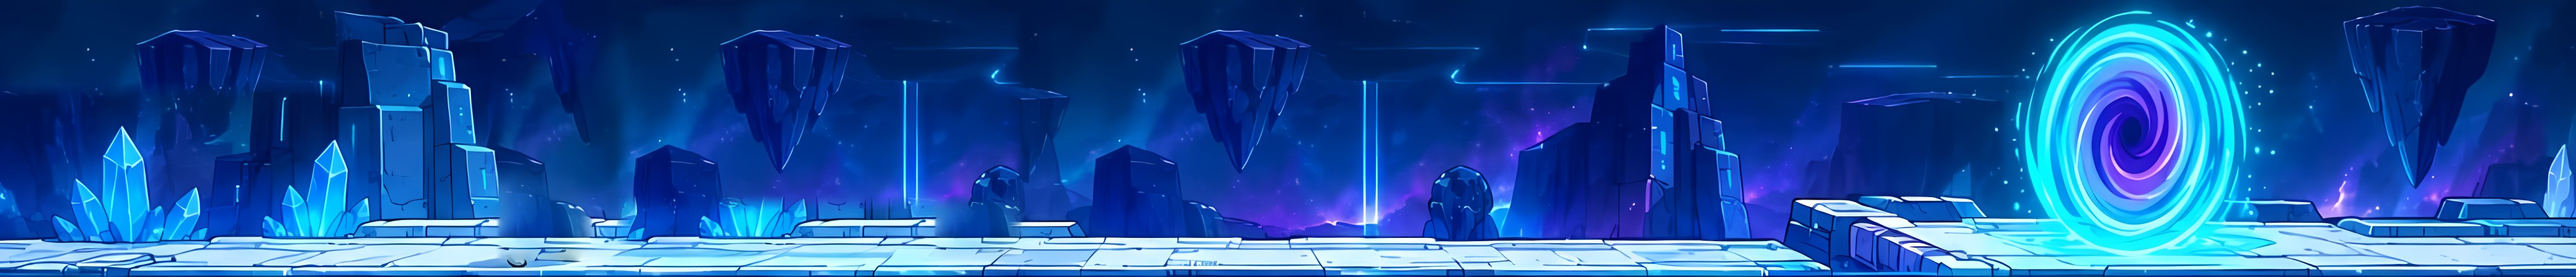
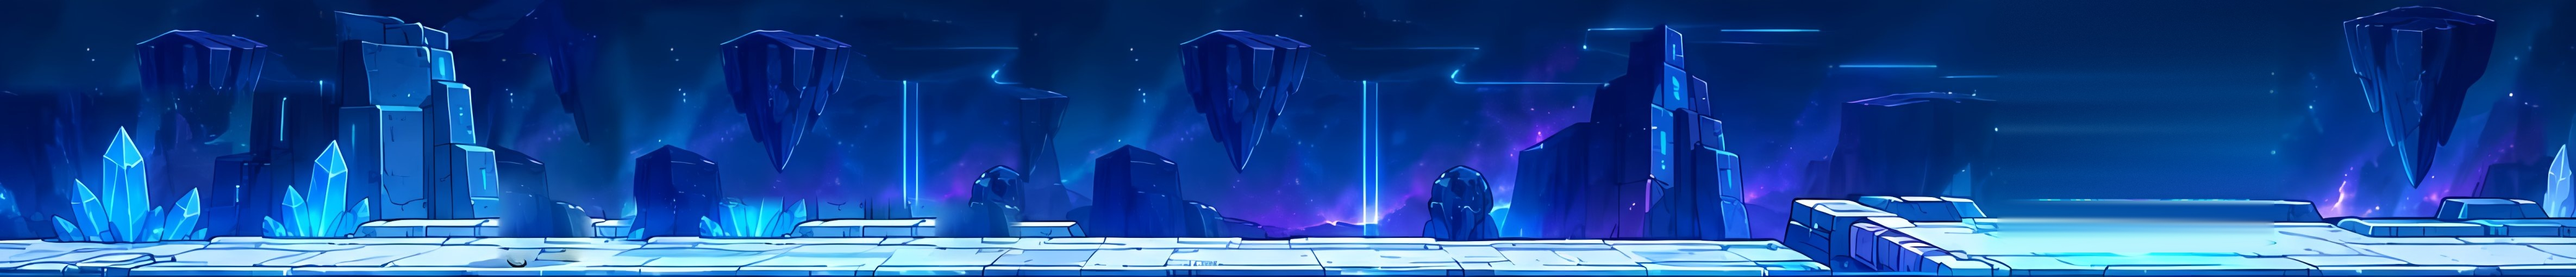
Portal 3D con profundidad, bloques sólidos con físicas y plataformas móviles alcanzables
- Portal nuevo: marco de piedra con runas, túnel de anillos que se alejan,
  charco de luz en el piso, rayo de luz y chispas; sellado cuando está
  cerrado y con onda de energía al abrirse. Dos capas: el arco frontal se
  dibuja después del personaje para que entre al túnel al ser absorbido
  (espiral, giro, encogimiento y chispas succionadas).
- Se borra el remolino pintado del arte de los niveles de bienvenida
  (hd/arit1.jpg y hd/alg1.jpg) para que el único portal sea el animado.
- Bloques sólidos (escalones y cajas) con volumen y sombra: se choca de lado,
  se pueden escalar y su cima es plataforma; también en las secciones
  copiadas de los niveles largos.
- Aritmética nivel 2: se arregla el salto imposible entre una plataforma
  móvil y su copia (antes 440 u, máximo alcanzable ~209) y se acerca la
  última móvil a la salida; todos los saltos entre móviles pasan de >=65%
  de los momentos de despegue (simulados con la física real).
- Pantalla de transición con el portal más grande.

Claude-Session: https://claude.ai/code/session_01BqYWUF1re9tPK38mygZs1j

Changed region(s): [[0.7494, 0.0, 0.9055, 0.9118]]

diff --git a/index.html b/index.html
@@ -534,32 +534,32 @@ if __name__ == "__main__":
 "use strict";
 const LEVELS = {
 arit:[
- {img:"arit1",fx:"space",plats:[[0,622,135],[1065,1516,137]],bridges:[[622,1065,136]],spawn:60,portal:{x:1235,y:113,s:1.5,open:1},gems:[[380,80],[840,85],[980,80]]},
+ {img:"arit1",fx:"space",blk:[[420,458,22],[1095,1131,14],[1131,1167,28]],plats:[[0,622,135],[1065,1516,137]],bridges:[[622,1065,136]],spawn:60,portal:{x:1235,y:116,open:1},gems:[[380,80],[840,85],[980,80]]},
  {img:"arit2_bg",fx:"lava",plats:[[15,175,100],[375,497,104],[550,663,84],[770,895,102],[942,1125,81]],spawn:60,box:{spr:"arit2_box",x:1030},exit:[1125,1516,81],portal:{x:1450,y:75},gems:[[275,45],[525,30],[716,35],[920,30]]},
  {img:"arit3_bg",fx:"space",plats:[[138,257,112],[1200,1516,80]],spawn:190,
-  movers:[{spr:"arit3_p2",walk:[335,437,120],ax:50,T:3.2},{spr:"arit3_p3",walk:[482,628,91],ay:26,T:2.6},{spr:"arit3_p4",walk:[670,773,80],ay:24,T:2.2,ph:1.5},{spr:"arit3_p5",walk:[823,945,51],ax:65,T:3.6}],
+  movers:[{spr:"arit3_p2",walk:[335,437,120],ax:50,T:3.2},{spr:"arit3_p3",walk:[482,628,91],ay:26,T:2.6},{spr:"arit3_p4",walk:[670,773,80],ay:24,T:2.2,ph:1.5},{spr:"arit3_p5",walk:[823,945,51],ax:100,T:3.6}],
   box:{spr:"arit3_box",x:1325},portal:{x:1460,y:70},gems:[[296,70],[555,35],[722,25],[1080,15]]},
  {img:"arit4_bg",fx:"space",fly:true,spawn:40,spawnY:75,
   // Obstáculos repartidos con espacio parejo (~150px entre centros) y alternando arriba/abajo
   // para que siempre quede un carril libre y predecible en vez de un muro de asteroides.
   obst:[{spr:"arit4_o0",c:[320,60,30],ay:14,T:3,rot:.4},{spr:"arit4_o3",c:[470,98,22],ay:14,T:2.4,rot:2},{spr:"arit4_o2",c:[620,60,28],ay:14,T:2.8,rot:.6},{spr:"arit4_o4",c:[770,98,24],ay:14,T:2.2,rot:-2},{spr:"arit4_o1",c:[920,60,28],ay:14,T:2.6,rot:-.5},{spr:"arit4_o5",c:[1070,92,17],ay:12,T:1.8,rot:2.5}],
   land:1245,plats:[[1245,1400,101]],box:{spr:"arit4_box",x:1332},exit:[1400,1516,101],portal:{x:1465,y:93},gems:[[395,75],[695,40],[995,70]]},
- {img:"arit5",fx:"space",plats:[[0,1516,120]],spawn:60,goal:1120,portal:{x:1290,y:103,s:1.25},gems:[[400,70],[700,70],[1000,70]]}],
+ {img:"arit5",fx:"space",blk:[[300,336,24],[440,478,18],[478,516,36],[1040,1078,28]],plats:[[0,1516,120]],spawn:60,goal:1120,portal:{x:1290,y:115},gems:[[400,70],[700,70],[1000,70]]}],
 alg:[
- {img:"alg1",fx:"cave",plats:[[0,1580,160]],spawn:60,portal:{x:1298,y:150,s:1.4,open:1},gems:[[450,110],[800,110],[1050,110]]},
+ {img:"alg1",fx:"cave",blk:[[300,338,24],[560,596,16],[596,632,32],[820,858,26],[1130,1166,14],[1166,1202,28]],plats:[[0,1580,160]],spawn:60,portal:{x:1298,y:156,open:1},gems:[[450,110],[800,110],[1050,110]]},
  {img:"alg2_bg",fx:"water",plats:[[65,230,107],[363,493,102],[605,740,105],[910,1070,102],[1187,1340,95]],spawn:110,box:{spr:"alg2_box",x:1000},star:{spr:"alg2_star",x:1262},exit:[1340,1580,95],portal:{x:1510,y:90},gems:[[296,50],[550,45],[825,50]]},
  {img:"alg3_bg",fx:"cave",plats:[[87,297,103],[1300,1580,90]],spawn:130,
   movers:[{spr:"alg3_p2",walk:[422,620,108],ax:60,T:3.4},{spr:"alg3_p3",walk:[745,930,101],ay:28,T:2.8},{spr:"alg3_p4",walk:[1033,1205,85],ax:55,T:3,ph:1}],
   box:{spr:"alg3_box",x:1445},portal:{x:1535,y:83},gems:[[360,45],[682,40],[985,35]]},
- {img:"alg4_bg",fx:"cave",plats:[[0,1580,137]],spawn:60,box:{x:560,hidden:1},cups:{slots:[662,770,878],y:112},portal:{x:1500,y:135},gems:[[300,95],[1150,95],[1320,95]]},
- {img:"alg5",fx:"cave",plats:[[0,1580,145]],spawn:60,goal:1230,portal:{x:1390,y:126,s:1.3},gems:[[400,90],[750,90],[1050,90]]}]
+ {img:"alg4_bg",fx:"cave",blk:[[450,488,24],[1000,1038,28]],plats:[[0,1580,137]],spawn:60,box:{x:560,hidden:1},cups:{slots:[662,770,878],y:112},portal:{x:1500,y:135},gems:[[300,95],[1150,95],[1320,95]]},
+ {img:"alg5",fx:"cave",blk:[[300,336,24],[420,458,18],[458,496,36],[1100,1138,28]],plats:[[0,1580,145]],spawn:60,goal:1230,portal:{x:1390,y:140},gems:[[400,90],[750,90],[1050,90]]}]
 };
 /* ---------- Niveles más largos y difíciles ----------
    Cada nivel de plataformas repite una sección "ida - espejo - ida": el espejo hace que los cortes del
    fondo sean continuos, sin costuras. Se duplican plataformas, gemas, plataformas móviles, asteroides
    y cristales peligrosos; todo lo que está después de la sección se recorre. Las copias son más rápidas. */
 const LEVEL_EXT = {
-  arit: { 1: [285, 716], 2: [649, 1105], 3: [395, 845], 4: [560, 1000] },
+  arit: { 1: [285, 716], 2: [649, 1020], 3: [395, 845], 4: [560, 1000] },
   alg:  { 1: [297, 825], 2: [712, 1280], 3: [165, 400], 4: [560, 1050] }
 };
 // Cristales peligrosos en el piso: [x0, x1] (opcional: amplitud de patrulla, periodo)
@@ -587,6 +587,7 @@ function extendLevel(L, xs, xe, hz) {
     m => ({ ...m, walk: [mir(m.walk[1]), mir(m.walk[0]), m.walk[2]], mir: true, mx: 2 * xe, T: m.T * .85 }),
     m => ({ ...m, walk: [m.walk[0] + D2, m.walk[1] + D2, m.walk[2]], sx: (m.sx || 0) + D2, T: part((m.walk[0] + m.walk[1]) / 2) === 1 ? m.T * .85 : m.T }));
   if (L.gems) L.gems = items(L.gems, g => g[0], 0, g => [mir(g[0]), g[1]], g => [g[0] + D2, g[1]]);
+  if (L.blk) L.blk = items(L.blk, b => (b[0] + b[1]) / 2, 0, b => [mir(b[1]), mir(b[0]), b[2]], b => [b[0] + D2, b[1] + D2, b[2]]);
   if (L.obst) L.obst = items(L.obst, o => o.c[0], 0,
     o => ({ ...o, c: [mir(o.c[0]), o.c[1], o.c[2]], T: o.T * .85, ay: (o.ay || 0) + 4, at: !o.at }),
     o => ({ ...o, c: [o.c[0] + D2, o.c[1], o.c[2]], T: part(o.c[0]) === 1 ? o.T * .85 : o.T, ay: part(o.c[0]) === 1 ? (o.ay || 0) + 4 : o.ay }));
@@ -621,6 +622,11 @@ function fixGems(L) {
   });
   L.gems = L.gems.filter((g, i, arr) => arr.findIndex(h => Math.abs(h[0] - g[0]) < 36 && Math.abs(h[1] - g[1]) < 30) === i); // sin gemas encimadas
 }
+/* Bloques sólidos (escalones y cajas): se pueden escalar, se choca de lado con ellos y sus cimas son plataformas.
+   [x0, x1, alto] -> [x0, x1, y de la cima, y del piso]. */
+for (const area in LEVELS) LEVELS[area].forEach(L => { L.blocks = (L.blk || []).map(([a, b, h]) => { const cx = (a + b) / 2, pl = L.plats.find(q => cx >= q[0] && cx <= q[1]) || (L.bridges || []).find(q => cx >= q[0] && cx <= q[1]); const gy = pl ? pl[2] : 130; return [a, b, gy - h, gy] }) });
+// Ajuste fino de la última plataforma móvil: se acerca a la salida para que el último salto no dependa de la suerte.
+{ const L = LEVELS.arit[2], m = L.movers.slice().sort((x, y) => x.walk[0] - y.walk[0]).pop(), n = 75; m.walk = [m.walk[0] + n, m.walk[1] + n, m.walk[2]]; m.sx = (m.sx || 0) + n }
 for (const area in LEVELS) LEVELS[area].forEach(fixGems);
 /* Imagen del nivel extendido: ida + espejo + ida + resto, en un solo lienzo con el mismo formato que la imagen original */
 function levelImg(L) {
@@ -986,7 +992,7 @@ const CW = 260, CH = 420, K = 0.19, FLY_K = .9; // FLY_K: tamaño del avatar al 
 // El hueco más ancho de los niveles mide 200 u: alcance = RUN_V x tiempo en el aire ~ 208 u (+16 u de tolerancia en los bordes).
 const RUN_V = 250, JUMP_V = 475, G_UP = 1050, G_DOWN = 1500;
 const KR = K / 0.22, FR = K * FLY_K / (0.22 * 0.72);
-const BOXS = .7, PS = .82, OBS = .85; // OBS: asteroides // caja ?, estrella y portales: más chicos para que pesen como el personaje (el cubo era más alto que él)
+const BOXS = .7, PZ = 1.1, OBS = .85; // caja ?, estrella y asteroides más chicos para pesar como el personaje; PZ: zoom de los portales (el nuevo es más grande y cubre el portal pintado del arte)
 const keys = { left: 0, right: 0, up: 0, down: 0 };
 let running = false, G = null, last = 0, gemsTotal = 0;
 const TAU = Math.PI * 2;
@@ -1081,6 +1087,7 @@ function updGems() { $("#g-gems-n").textContent = gemsTotal }
 function moverOff(m, t) { const a = TAU * t / m.T + (m.ph || 0); return [(m.ax || 0) * Math.sin(a) * (m.mir ? -1 : 1), (m.ay || 0) * Math.sin(a)] }
 function plats() {
   const L = G.L; let p = L.plats.slice(); if (L.bridges) p = p.concat(L.bridges); if (G.exitOn && L.exit) p.push(L.exit);
+  for (const b of L.blocks || []) p.push(Object.assign([b[0], b[1], b[2]], { blk: true }));
   if (L.movers) for (const m of L.movers) { const [dx, dy] = moverOff(m, G.t); const w = m.walk; p.push([w[0] + dx, w[1] + dx, w[2] + dy, m]) }
   return p;
 }
@@ -1100,7 +1107,9 @@ function step(dt) {
   for (const b of G.burst) { b.t += dt; b.x += b.vx * dt; b.y += b.vy * dt; b.vy += 60 * dt }
   G.burst = G.burst.filter(b => b.t < b.life);
   if (G.absorb) {
-    const wasBelow = G.absorb < 1; G.absorb = Math.min(1, G.absorb + dt / .8);
+    const wasBelow = G.absorb < 1; G.absorb = Math.min(1, G.absorb + dt / .9);
+    { const P = L.portal, s2 = (P.s || 1) * PZ, cx = P.x, cyy = P.y - 52 * s2 - 3 * s2; // chispas que el portal succiona
+      if (Math.random() < dt * 60) { const an = Math.random() * TAU, r = (30 + Math.random() * 30) * s2; G.burst.push({ x: cx + Math.cos(an) * r, y: cyy + Math.sin(an) * r * 1.4, vx: -Math.cos(an) * r * 2.4, vy: -Math.sin(an) * r * 3.2, t: 0, life: .45, c: Math.random() < .5 ? "160,240,255" : "200,160,255" }) } }
     if (wasBelow && G.absorb >= 1) { G.warpFlash = 1.3; sfxWarp(); if (G.done) { const d = G.done; G.done = null; d() } }
     return;
   }
@@ -1146,7 +1155,12 @@ function step(dt) {
     if (wasFast && dir === 0 && G.ground) G.squash = Math.max(G.squash || 0, .5); // frenada brusca
     if (!busy && keys.up && (G.ground || G.coyote > 0)) { G.vy = -JUMP_V; G.ground = false; G.coyote = 0; G.jt = 0; G.on = null; G.squash = -.8; sfxJump() }
     if (!keys.up && G.vy < -250) G.vy = -250;
-    const prevY = G.y, fallV = G.vy; G.vy += (G.vy < 0 && keys.up ? G_UP : G_DOWN) * dt; G.x += (G.vx + (G.kbx || 0)) * dt; G.kbx = (G.kbx || 0) * Math.pow(.02, dt); G.y += G.vy * dt; G.jt = (G.jt || 0) + dt;
+    let prevY = G.y; const fallV = G.vy, prevX = G.x; G.vy += (G.vy < 0 && keys.up ? G_UP : G_DOWN) * dt; G.x += (G.vx + (G.kbx || 0)) * dt; G.kbx = (G.kbx || 0) * Math.pow(.02, dt); G.y += G.vy * dt;
+    for (const b of L.blocks || []) { // bloques sólidos: si los pies están más abajo que la cima y se mete de lado, se frena (y sube solo si el escalón es de <= 7)
+      const hw = 9; if (G.x + hw > b[0] && G.x - hw < b[1] && G.y > b[2] + 3 && prevY > b[2] + 3 - 1) {
+        if (prevY - b[2] <= 7 && G.vy >= 0) { G.y = b[2]; prevY = b[2] - 1; G.vy = 0 }
+        else { G.x = prevX <= (b[0] + b[1]) / 2 ? b[0] - hw : b[1] + hw; G.vx = 0; G.kbx = 0 }
+      } } G.jt = (G.jt || 0) + dt;
     G.coyote = Math.max(0, (G.coyote || 0) - dt);
     let landed = null;
     if (G.vy >= 0) for (const p of plats()) { if (G.x >= p[0] - 8 && G.x <= p[1] + 8 && prevY <= p[2] + 3 && G.y >= p[2]) { G.y = p[2]; G.vy = 0; landed = p; break } }
@@ -1165,7 +1179,7 @@ function step(dt) {
         break;
       }
     }
-    if (landed && !landed[3] && landed !== L.exit) G.cp = Math.min(Math.max(G.x, landed[0] + 20), landed[1] - 20);
+    if (landed && !landed[3] && landed !== L.exit && !landed.blk) G.cp = Math.min(Math.max(G.x, landed[0] + 20), landed[1] - 20);
     if (G.y > rowH + 60) {
       const over = loseLife("¡Cuidado! Evita caer.");
       if (over) G.cp = L.spawn;
@@ -1183,30 +1197,81 @@ function step(dt) {
   if (!G.busy && L.box && !G.answered && Math.abs(G.x - L.box.x) < 26 && !G.fly) { G.busy = true; G.onBox && G.onBox() }
   if (L.goal && G.x >= L.goal) openPortal();
   const P = L.portal;
-  if (!G.busy && P && G.portalOpen >= 1 && Math.abs(G.x - P.x) < 20 * PS * (P.s || 1) + 4) { G.busy = true; G.absorb = 0.001; G.face = 1 }
+  if (!G.busy && P && G.portalOpen >= 1 && Math.abs(G.x - P.x) < 15 * PZ * (P.s || 1) + 6) { G.busy = true; G.absorb = 0.001; G.face = 1 }
 }
 function dust(x, y, n) { for (let i = 0; i < n; i++) G.burst.push({ x: x + rnd(-10, 10), y: y - rnd(0, 3), vx: rnd(-50, 50), vy: rnd(-40, -8), t: 0, life: rnd(.35, .7), c: "210,235,255", big: 1 }) }
 function boom(x, y, c) { for (let i = 0; i < 24; i++) G.burst.push({ x, y, vx: rnd(-140, 140), vy: rnd(-160, 30), t: 0, life: rnd(.5, 1), c }) }
 
 /* Portal animado (se usa en el juego y en las pantallas de transición) */
-function drawPortal(c, x, yb, s, t, open) {
-  if (open <= 0) return;
-  const rx = 34 * s * open, ry = 52 * s * open, cy = yb - 52 * s;
-  c.save(); c.translate(x, cy);
-  c.save(); c.scale(1, ry / rx);
-  let g = c.createRadialGradient(0, 0, 0, 0, 0, rx * 1.5);
-  g.addColorStop(0, "rgba(20,6,60,1)"); g.addColorStop(.45, "rgba(90,40,210,.95)"); g.addColorStop(.72, "rgba(63,214,255,.9)"); g.addColorStop(1, "rgba(63,214,255,0)");
-  c.fillStyle = g; c.beginPath(); c.arc(0, 0, rx * 1.5, 0, TAU); c.fill(); c.restore();
-  c.globalCompositeOperation = "lighter";
-  for (let k = 0; k < 5; k++) {
+/* Portal con profundidad (se usa en el juego y en las pantallas de transición).
+   Dos capas: "back" (charco de luz en el piso, rayo de luz, túnel con anillos que se alejan, marco de piedra con runas)
+   y "front" (el arco inferior del marco), que se pinta DESPUÉS del personaje mientras es absorbido: así parece que
+   entra al túnel en vez de pasar por encima. Con open = 0 el portal se ve sellado (marco con runas apagadas). */
+function portalRing(c, rx, ry, th, s, t, op, lowerOnly) {
+  const N = 16, pulse = .5 + .5 * Math.sin(t * 3);
+  for (let i = 0; i < N; i++) {
+    const a0 = i * TAU / N + .018, a1 = (i + 1) * TAU / N - .018, am = (a0 + a1) / 2;
+    if (lowerOnly && Math.sin(am) < .3) continue;
+    const ox = r => Math.cos(r), oy = r => Math.sin(r), R0 = 1, R1 = (rx + th) / rx;
     c.beginPath();
-    for (let r = .08; r <= 1; r += .04) { const a = -t * 3.2 + k * TAU / 5 + r * 5.2; const px = Math.cos(a) * rx * r, py = Math.sin(a) * ry * r; r === .08 ? c.moveTo(px, py) : c.lineTo(px, py) }
-    c.strokeStyle = k % 2 ? "rgba(190,140,255,.55)" : "rgba(140,240,255,.5)"; c.lineWidth = 2.6 * s; c.stroke();
+    c.moveTo(ox(a0) * (rx + th), oy(a0) * (ry + th)); c.lineTo(ox(a1) * (rx + th), oy(a1) * (ry + th));
+    c.lineTo(ox(a1) * rx, oy(a1) * ry); c.lineTo(ox(a0) * rx, oy(a0) * ry); c.closePath();
+    const lit = .5 + .5 * Math.cos(am + 2.2), g = c.createLinearGradient(ox(am) * (rx + th), oy(am) * (ry + th), ox(am) * rx, oy(am) * ry);
+    g.addColorStop(0, `rgb(${Math.round(120 + 100 * lit)},${Math.round(150 + 90 * lit)},${Math.round(215 + 30 * lit)})`); g.addColorStop(1, `rgb(${Math.round(30 + 40 * lit)},${Math.round(48 + 52 * lit)},${Math.round(105 + 40 * lit)})`);
+    c.fillStyle = g; c.fill(); c.lineWidth = 1.5 * s; c.strokeStyle = "#0a1230"; c.stroke();
+    if (i % 2) { // runa
+      const rr = (rx + th * .5), px = ox(am) * rr, py = oy(am) * (ry + th * .5), ang = am + Math.PI / 2, k = (.2 + .8 * op) * (.7 + .3 * pulse);
+      c.save(); c.translate(px, py); c.rotate(ang); c.globalCompositeOperation = "lighter"; c.strokeStyle = `rgba(110,240,255,${k})`; c.lineWidth = 1.6 * s; c.lineCap = "round";
+      c.beginPath(); c.moveTo(-2.6 * s, -2.2 * s); c.lineTo(0, 2.4 * s); c.lineTo(2.6 * s, -2.2 * s); c.moveTo(-2.6 * s, 0); c.lineTo(2.6 * s, 0); c.stroke(); c.restore();
+    }
   }
-  for (let i = 0; i < 16; i++) { const f = ((t * .6 + i / 16) % 1), a = i * 2.4 + t * 2, r = 1.25 - f; c.fillStyle = `rgba(200,240,255,${.9 * f})`; c.beginPath(); c.arc(Math.cos(a) * rx * r, Math.sin(a) * ry * r, 1.6 * s, 0, TAU); c.fill() }
+}
+function drawPortal(c, x, yb, s, t, open, part) {
+  const doFront = part === "front", doBack = !doFront;
+  const rx = 34 * s, ry = 52 * s, th = 9 * s, cy = yb - ry - 3 * s, op = Math.max(0, Math.min(1, open || 0)), pulse = .5 + .5 * Math.sin(t * 3);
+  c.save(); c.translate(x, cy);
+  if (doFront) { portalRing(c, rx, ry, th, s, t, op, true); c.restore(); return }
+  // charco de luz en el piso: da apoyo al portal
+  c.globalCompositeOperation = "lighter";
+  let g = c.createRadialGradient(0, ry + 3 * s, 0, 0, ry + 3 * s, rx * 2); g.addColorStop(0, `rgba(80,225,255,${.1 + .5 * op})`); g.addColorStop(1, "rgba(80,225,255,0)");
+  c.save(); c.translate(0, ry + 3 * s); c.scale(1, .17); c.translate(0, -(ry + 3 * s)); c.fillStyle = g; c.beginPath(); c.arc(0, ry + 3 * s, rx * 2, 0, TAU); c.fill(); c.restore();
+  // rayo de luz hacia arriba
+  if (op > .02) { const bg = c.createLinearGradient(0, -ry, 0, -ry - 150 * s); bg.addColorStop(0, `rgba(140,235,255,${.22 * op})`); bg.addColorStop(1, "rgba(140,235,255,0)");
+    c.fillStyle = bg; c.beginPath(); c.moveTo(-rx * .75, -ry * .6); c.lineTo(rx * .75, -ry * .6); c.lineTo(rx * 1.05, -ry - 150 * s); c.lineTo(-rx * 1.05, -ry - 150 * s); c.closePath(); c.fill() }
   c.globalCompositeOperation = "source-over";
-  c.strokeStyle = "rgba(63,214,255,.35)"; c.lineWidth = 9 * s; c.beginPath(); c.ellipse(0, 0, rx, ry, 0, 0, TAU); c.stroke(); c.strokeStyle = "rgba(158,242,255,.95)"; c.lineWidth = 3 * s;
-  c.beginPath(); c.ellipse(0, 0, rx, ry, 0, 0, TAU); c.stroke(); c.restore();
+  // interior: vacío + túnel de anillos que se alejan hacia el fondo
+  c.save(); c.beginPath(); c.ellipse(0, 0, rx, ry, 0, 0, TAU); c.clip();
+  g = c.createRadialGradient(0, 0, 0, 0, 0, rx * 1.25); g.addColorStop(0, "#07021c"); g.addColorStop(.5, "#190a50"); g.addColorStop(1, "#0b2c66"); c.fillStyle = g; c.fillRect(-rx, -ry, rx * 2, ry * 2);
+  c.globalCompositeOperation = "lighter";
+  const sc = .12 + .88 * op;
+  for (let k = 0; k < 9; k++) {
+    const f = ((t * (.28 + .2 * op) + k / 9) % 1), r = (1.05 - f * .98) * sc, a = Math.sin(f * Math.PI) * (.25 + .65 * op), ox = Math.sin(t * .8 + k) * rx * .05 * f;
+    c.strokeStyle = `hsla(${k % 2 ? 265 : 190},95%,${62 + 12 * (1 - f)}%,${a})`; c.lineWidth = (1 + (1 - f) * 3.6) * s;
+    c.beginPath(); c.ellipse(ox, -ry * .04 * f, rx * r, ry * r, 0, 0, TAU); c.stroke();
+  }
+  for (let k = 0; k < 5; k++) { // brazos del remolino
+    c.beginPath();
+    for (let r = .06; r <= 1; r += .04) { const an = -t * 2.6 * (.4 + .6 * op) + k * TAU / 5 + r * 5.4; const px = Math.cos(an) * rx * r * sc, py = Math.sin(an) * ry * r * sc; r === .06 ? c.moveTo(px, py) : c.lineTo(px, py) }
+    c.strokeStyle = k % 2 ? `rgba(190,140,255,${.2 + .4 * op})` : `rgba(140,240,255,${.2 + .38 * op})`; c.lineWidth = 2.3 * s; c.stroke();
+  }
+  if (op > .5) for (let k = 0; k < 3; k++) { // descargas de energía
+    const a0 = t * 1.7 + k * 2.1, vis = Math.sin(t * 9 + k * 5) > .35 ? 1 : 0; if (!vis) continue;
+    c.beginPath(); let ex = Math.cos(a0) * rx, ey = Math.sin(a0) * ry; c.moveTo(ex, ey);
+    for (let q = 1; q <= 6; q++) { const f = q / 6; c.lineTo(ex * (1 - f) + Math.sin(t * 40 + q * 3 + k) * 4 * s, ey * (1 - f) + Math.cos(t * 33 + q * 2 + k) * 4 * s) }
+    c.strokeStyle = `rgba(220,245,255,${.5 * op})`; c.lineWidth = 1.3 * s; c.stroke();
+  }
+  g = c.createRadialGradient(0, 0, 0, 0, 0, rx * .55 * sc); g.addColorStop(0, `rgba(235,225,255,${(.35 + .3 * pulse) * op + .04})`); g.addColorStop(1, "rgba(160,110,255,0)"); c.fillStyle = g; c.fillRect(-rx, -ry, rx * 2, ry * 2);
+  c.restore();
+  // marco de piedra con runas
+  c.globalCompositeOperation = "source-over"; portalRing(c, rx, ry, th, s, t, op, false);
+  // brillo del borde interior y onda al abrirse
+  c.globalCompositeOperation = "lighter";
+  c.strokeStyle = `rgba(158,242,255,${(.12 + .6 * op) * (.8 + .2 * pulse)})`; c.lineWidth = 2.6 * s; c.beginPath(); c.ellipse(0, 0, rx, ry, 0, 0, TAU); c.stroke();
+  if (op > .02 && op < 1) { const w = 1 + (1 - op) * 1.1; c.strokeStyle = `rgba(190,245,255,${op * (1 - op) * 3})`; c.lineWidth = 3 * s; c.beginPath(); c.ellipse(0, 0, (rx + th) * w, (ry + th) * w, 0, 0, TAU); c.stroke() }
+  // partículas que el portal atrae y chispas que suben del piso
+  for (let i = 0; i < 16; i++) { const f = ((t * .5 + i / 16) % 1), an = i * 2.4 + t * 1.1, r = 1.55 - f * 1.35; c.fillStyle = `rgba(200,240,255,${.9 * f * (.15 + .85 * op)})`; c.beginPath(); c.arc(Math.cos(an) * (rx + th) * r, Math.sin(an) * (ry + th) * r, 1.5 * s, 0, TAU); c.fill() }
+  for (let i = 0; i < 10; i++) { const f = ((t * .32 + i * .1) % 1), px = (((i * 37) % 100) / 100 - .5) * rx * 2.6; c.fillStyle = `rgba(150,235,255,${(1 - f) * .75 * (.2 + .8 * op)})`; c.fillRect(px, ry + 3 * s - f * ry * 1.7, 1.6 * s, 1.6 * s) }
+  c.restore();
 }
 function drawCup(c, x, y, lift, t) {
   const w = 76, h = 64, top = y - h - lift;
@@ -1225,6 +1290,33 @@ function drawQBox(c, x, yb, t, s = 1) {
   c.drawImage(b, x - w / 2, yb - h + 2, w, h);
 }
 /* Globo de diálogo con "?" flotando sobre una caja, para que se note que hay que tocarla. */
+/* Bloques sólidos con volumen: cara superior clara, frente degradado con paneles y vetas de luz, contorno marino
+   (mismo estilo que las plataformas del arte), sombra de contacto en el piso y oclusión en la base. */
+function drawBlock(c, b, t, fx) {
+  const [x0, x1, top, gy] = b, w = x1 - x0, h = gy - top, d = 6, glowC = fx === "lava" ? "255,160,90" : fx === "water" ? "90,255,210" : "110,225,255";
+  c.save(); c.lineJoin = "round";
+  // sombra de contacto y brillo ambiental en el piso
+  const sg = c.createRadialGradient((x0 + x1) / 2, gy, 0, (x0 + x1) / 2, gy, w * .9); sg.addColorStop(0, "rgba(0,4,24,.5)"); sg.addColorStop(1, "rgba(0,4,24,0)");
+  c.save(); c.translate(0, gy); c.scale(1, .22); c.translate(0, -gy); c.fillStyle = sg; c.beginPath(); c.arc((x0 + x1) / 2 + 4, gy, w * .9, 0, TAU); c.fill(); c.restore();
+  // frente
+  const fg = c.createLinearGradient(0, top, 0, gy); fg.addColorStop(0, "#6d92da"); fg.addColorStop(.55, "#3d58a6"); fg.addColorStop(1, "#1f2f70");
+  c.fillStyle = fg; c.strokeStyle = "#0d1530"; c.lineWidth = 1.8; c.beginPath(); c.rect(x0, top, w, h); c.fill(); c.stroke();
+  // paneles
+  c.strokeStyle = "rgba(13,21,48,.7)"; c.lineWidth = 1.1; const rows = Math.max(1, Math.round(h / 16));
+  for (let i = 1; i < rows; i++) { const y = top + h * i / rows; c.beginPath(); c.moveTo(x0, y); c.lineTo(x1, y); c.stroke() }
+  if (w > 24) { c.beginPath(); c.moveTo(x0 + w * .5, top); c.lineTo(x0 + w * .5, top + h / rows); c.stroke() }
+  // veta de luz pulsante en el panel de en medio
+  const pulse = .55 + .45 * Math.sin(t * 2.4 + x0); c.fillStyle = `rgba(${glowC},${.45 * pulse})`; c.fillRect(x0 + 5, top + h * .5 - 1.2, w - 10, 2.4);
+  // remaches
+  c.fillStyle = "rgba(210,230,255,.7)"; for (const [rx, ry] of [[x0 + 3.5, top + 4], [x1 - 3.5, top + 4]]) { c.beginPath(); c.arc(rx, ry, 1.1, 0, TAU); c.fill() }
+  // oclusión en la base
+  const og = c.createLinearGradient(0, gy - 7, 0, gy); og.addColorStop(0, "rgba(0,6,30,0)"); og.addColorStop(1, "rgba(0,6,30,.55)"); c.fillStyle = og; c.fillRect(x0, gy - 7, w, 7);
+  // cara superior (tapa) con perspectiva
+  const tg = c.createLinearGradient(0, top - d, 0, top); tg.addColorStop(0, "#f4f8ff"); tg.addColorStop(1, "#bdd0ee");
+  c.fillStyle = tg; c.strokeStyle = "#0d1530"; c.lineWidth = 1.8; c.beginPath(); c.moveTo(x0, top); c.lineTo(x0 + 3.5, top - d); c.lineTo(x1 - 3.5, top - d); c.lineTo(x1, top); c.closePath(); c.fill(); c.stroke();
+  c.strokeStyle = "rgba(255,255,255,.75)"; c.lineWidth = 1; c.beginPath(); c.moveTo(x0 + 5, top - d + 1.6); c.lineTo(x1 - 5, top - d + 1.6); c.stroke();
+  c.restore();
+}
 function hzX(h, t) { return h[3] ? h[3] * Math.sin(TAU * t / h[4]) : 0 } // h = [x0, x1, y, amplitud, periodo]
 function drawHazards(c, L, t) {
   for (const h of L.hz || []) {
@@ -1415,6 +1507,7 @@ function draw() {
     const key = o.spr.split("_"); const r = OBJ[key[0]][key[1]]; ctx.save(); ctx.translate(ox, oy2); ctx.rotate(rot); if (o.at) ctx.scale(-1, 1); ctx.drawImage(im2, -r[2] * OBS / 2, -r[3] * OBS / 2, r[2] * OBS, r[3] * OBS); ctx.restore();
   }
   drawHazards(ctx, L, t);
+  for (const b of L.blocks || []) drawBlock(ctx, b, t, L.fx);
   // gemas
   for (const g of G.gems) if (!g.got) { const sx = Math.abs(Math.cos(t * 2.4 + g.x)) * 7 + 1, yy = g.y + Math.sin(t * 3 + g.x) * 3; drawGem(ctx, g.x, yy, sx, t) }
   // caja ?
@@ -1428,7 +1521,7 @@ function draw() {
   if (G.cups) { for (const c of G.cups) if (c.i === G.cupHas && c.lift > 2) drawQBox(ctx, c.x, c.y, t); for (const c of G.cups) drawCup(ctx, c.x, c.y, c.lift, t);
     if (G.cupPick) { ctx.save(); ctx.fillStyle = "#ffcf4a"; ctx.font = "bold 13px 'Chakra Petch',sans-serif"; ctx.textAlign = "center"; G.cups.slice().sort((a, b) => a.x - b.x).forEach((c, i) => ctx.fillText(String(i + 1), c.x, c.y - 76 - pulse * 4)); ctx.restore() } }
   // portal
-  if (L.portal) drawPortal(ctx, L.portal.x, L.portal.y, (L.portal.s || 1) * PS, t, G.portalOpen);
+  if (L.portal) drawPortal(ctx, L.portal.x, L.portal.y, (L.portal.s || 1) * PZ, t, G.portalOpen, "back");
   if (G.trail.length) for (const tr of G.trail) { tr.a *= G.fly ? 0.9 : 0.8; ctx.fillStyle = `rgba(63,214,255,${tr.a * 0.5})`; ctx.fillRect(tr.x - 10, tr.y, 20, 3) }
   // personaje
   let f = 8, bob = 0, lean = 0, run = null, runImg = null;
@@ -1445,9 +1538,12 @@ function draw() {
   if (G.inv > 0 && Math.floor(t * 16) % 2) ctx.globalAlpha = 0.35;
   if (G.emerge > 0) ctx.globalAlpha *= 1 - G.emerge * 0.85; // se desvanece al materializarse al llegar
   ctx.save();
-  let px = G.x, py = G.y + bob, sc = K;
-  if (G.absorb) { const a = G.absorb, P = L.portal; px += (P.x - px) * a; py += (P.y - 40 * PS * (P.s || 1) - py) * a; sc = K * (1 - a * .95) }
-  ctx.translate(px, py); if (G.absorb) ctx.rotate(G.absorb * 7); else if (G.emerge > 0) ctx.rotate(G.emerge * G.emerge * -.6);
+  let px = G.x, py = G.y + bob, sc = K, absA = 0;
+  if (G.absorb) { // el portal te jala en espiral hacia el túnel: giras, te encoges y te desvaneces al final
+    const a0 = G.absorb, P = L.portal, s2 = (P.s || 1) * PZ, tx = P.x, ty = P.y - 52 * s2 + 22 * s2, sw = Math.sin(a0 * Math.PI) * 14 * s2, an = a0 * TAU * 1.3;
+    absA = a0 * a0 * (3 - 2 * a0); px += (tx - px) * absA + Math.cos(an) * sw * .5; py += (ty - py) * absA + Math.sin(an) * sw * .5; sc = K * (1 - absA * .93); ctx.globalAlpha *= 1 - Math.max(0, (a0 - .82) / .18);
+  }
+  ctx.translate(px, py); if (G.absorb) ctx.rotate(absA * TAU * 1.4); else if (G.emerge > 0) ctx.rotate(G.emerge * G.emerge * -.6);
   const sq = (G.squash || 0) * .12; // positivo = aplasta al aterrizar, negativo = estira al despegar
   if (G.fly) sc *= FLY_K;
   if (G.emerge > 0) sc *= 1 - G.emerge * 0.9;
@@ -1458,6 +1554,7 @@ function draw() {
   } else if (run) drawRun(ctx, run, G.x * G.face / (103 * KR)); // fase ligada a la distancia: el pie no patina
   else ctx.drawImage(sheet, f * CW, 0, CW, CH, -CW / 2, -CH, CW, CH);
   ctx.restore(); ctx.globalAlpha = 1;
+  if (G.absorb && L.portal) drawPortal(ctx, L.portal.x, L.portal.y, (L.portal.s || 1) * PZ, t, G.portalOpen, "front"); // el arco del frente tapa al personaje: entra al túnel
   // chispas
   ctx.globalCompositeOperation = "lighter";
   for (const b of G.burst) { const f = 1 - b.t / b.life; ctx.fillStyle = `rgba(${b.c},${b.big ? f * .35 : f})`; if (b.big) { ctx.beginPath(); ctx.arc(b.x, b.y, 2 + (1 - f) * 5, 0, TAU); ctx.fill() } else ctx.fillRect(b.x - 1.5, b.y - 1.5, 3, 3) }
@@ -1570,7 +1667,7 @@ function portalScreen(title, btn) {
     (function k(n) {
       if (!povRun) return; const t = (n - t0) / 1000; open = Math.min(1, t / .9);
       pctx.setTransform(1, 0, 0, 1, 0, 0); pctx.clearRect(0, 0, pcv.width, pcv.height);
-      const s = Math.min(pcv.width / 160, pcv.height / 200) * zoom;
+      const s = Math.min(pcv.width / 140, pcv.height / 178) * zoom;
       drawPortal(pctx, pcv.width / 2, pcv.height / 2 + 52 * s, s, t, ease(open));
       if (leaving) { zoom *= 1.09; pctx.fillStyle = `rgba(234,246,255,${Math.min(1, (zoom - 1) / 6)})`; pctx.fillRect(0, 0, pcv.width, pcv.height); if (zoom > 8) { povRun = false; pov.hidden = true; res(); return } }
       requestAnimationFrame(k);
